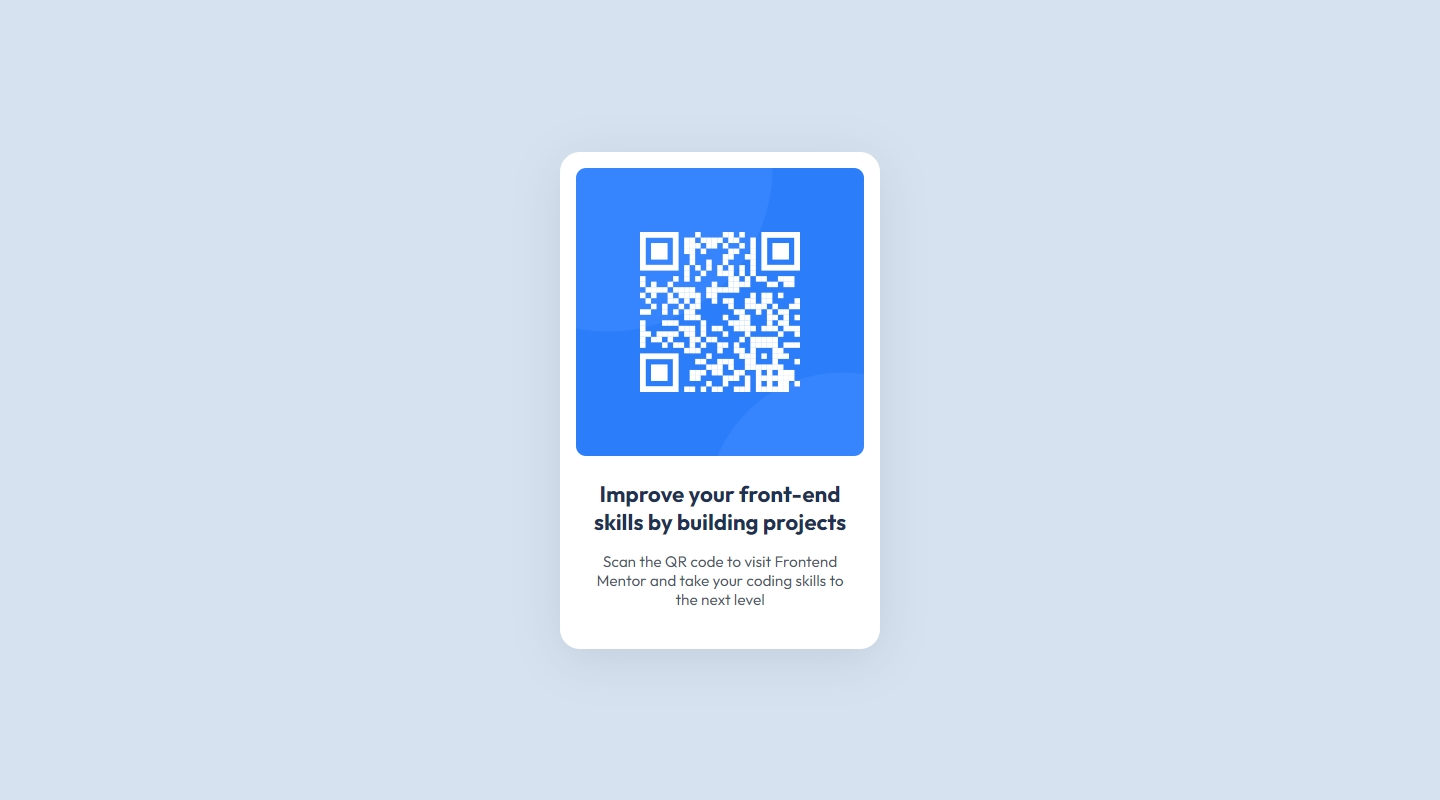
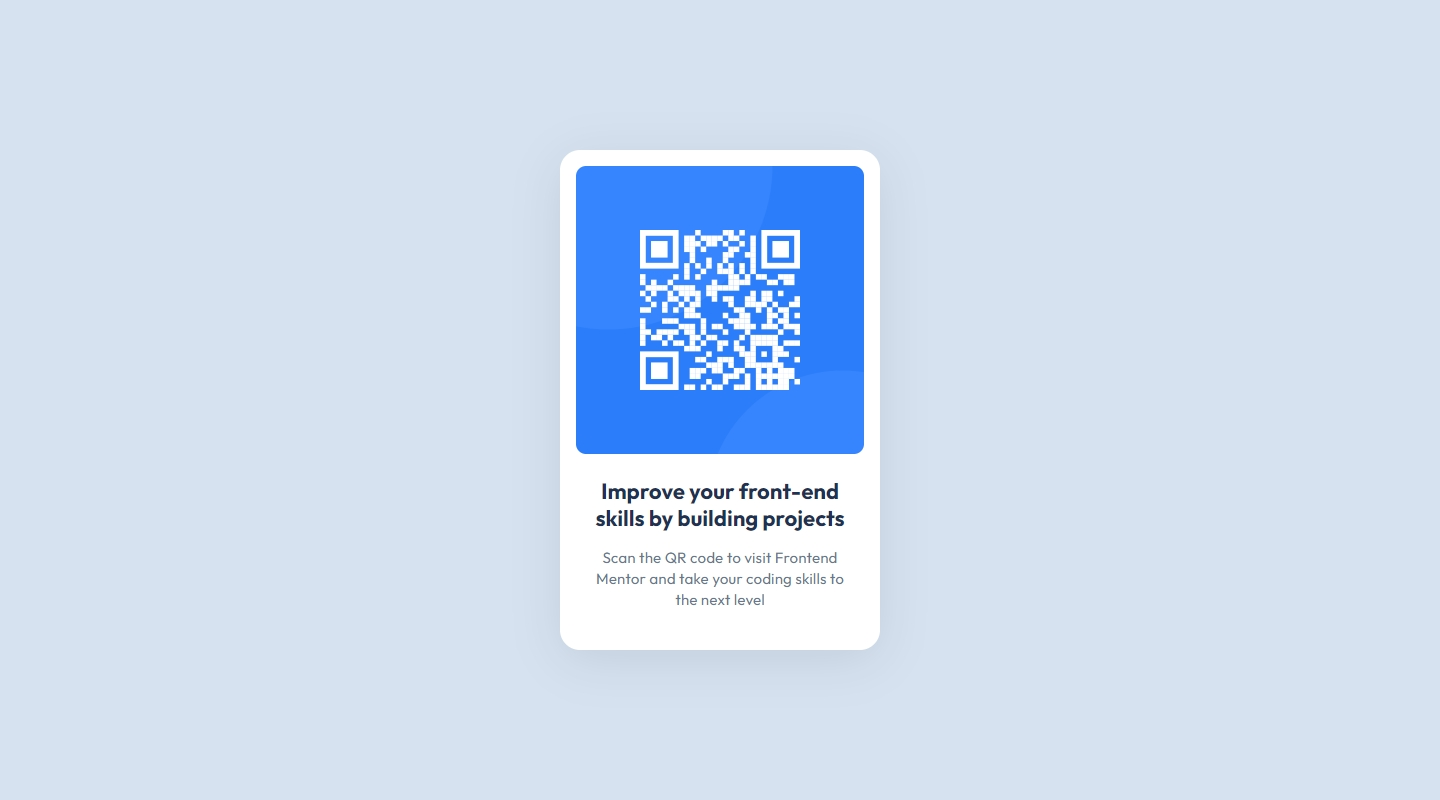
refactor: update project

Changed region(s): [[0.4062, 0.5625, 0.5938, 0.75], [0.4375, 0.2812, 0.5625, 0.5], [0.4062, 0.1875, 0.5938, 0.2188]]

diff --git a/index.html b/index.html
@@ -3,56 +3,61 @@
   <head>
     <meta charset="UTF-8" />
     <meta name="viewport" content="width=device-width, initial-scale=1.0" />
+    <title>QR Code Component</title>
+    <link rel="stylesheet" href="/styles.css" />
+
     <meta name="author" content="Darkstar" />
     <meta
       name="description"
-      content="Darkstar's solution for the QR Code Component challenge on frontendmentor.io"
+      content="Check out Darkstar's solution for the QR Code Component challenge on Frontend Mentor"
     />
-
-    <meta property="og:type" content="website" />
+    <meta
+      property="og:description"
+      content="Check out Darkstar's solution for the QR Code Component challenge on Frontend Mentor"
+    />
     <meta
       property="og:url"
       content="https://qr-code-component-darkstarxdd.vercel.app/"
     />
-    <meta property="og:title" content="QR Code Component - Frontend Mentor" />
-    <meta
-      property="og:description"
-      content="Darkstar's solution for the QR Code Component challenge on frontendmentor.io"
-    />
     <meta
       property="og:image"
-      content="https://qr-code-component-darkstarxdd.vercel.app/images/screenshot_desktop.jpeg"
+      content="https://qr-code-component-darkstarxdd.vercel.app/public/og-img.jpeg"
     />
+    <meta property="og:type" content="website" />
+    <meta property="og:title" content="QR Code Component - Frontend Mentor" />
     <meta property="og:image:type" content="image/jpeg" />
     <meta property="og:image:width" content="1440" />
-    <meta property="og:image:height" content="800" />
+    <meta property="og:image:height" content="756" />
 
     <link
       rel="icon"
       type="image/png"
       sizes="32x32"
-      href="./images/favicon-32x32.png"
+      href="/public/favicon-32x32.png"
     />
-    <link rel="stylesheet" href="styles.css" />
-    <title>QR Code Component</title>
   </head>
 
   <body>
-    <main class="card">
-      <img
-        class="card-img"
-        src="./images/image-qr-code.png"
-        alt="qr code leads to frontendmentor.io"
-      />
+    <main>
+      <div class="card">
+        <h1 class="visually-hidden">QR Code Component</h1>
+        <img
+          src="/assets/images/image-qr-code.png"
+          alt="qr code leads to frontendmentor.io"
+          width="576"
+          height="576"
+          class="card-img"
+        />
 
-      <div class="card-content">
-        <h1 class="card-content__heading">
-          Improve your front-end skills by building projects
-        </h1>
-        <p class="card-content__text">
-          Scan the QR code to visit Frontend Mentor and take your coding skills
-          to the next level
-        </p>
+        <div class="card-content">
+          <h2 class="card-content__heading text-preset-1">
+            Improve your front-end skills by building projects
+          </h2>
+          <p class="card-content__text text-preset-2">
+            Scan the QR code to visit Frontend Mentor and take your coding
+            skills to the next level
+          </p>
+        </div>
       </div>
     </main>
   </body>

diff --git a/README.md b/README.md
@@ -1,39 +1,47 @@
 ## Frontend Mentor Challenge 01 - QR Code Component
 
-This is my solution to the ["QR Code Component" challenge on Frontend Mentor](https://www.frontendmentor.io/challenges/qr-code-component-iux_sIO_H).
+This is my solution to the [QR Code Component](https://www.frontendmentor.io/challenges/qr-code-component-iux_sIO_H) challenge on [Frontend Mentor](https://www.frontendmentor.io/).
 
-### Screenshots of My Solution (Desktop & Mobile) 🔍
+#
+
+### Links. 🔗
+
+- Live Site URL: https://qr-code-component-darkstarxdd.vercel.app/
+
+#
+
+### Screenshots of the Solution (Desktop & Mobile). 🔍
 
 ![](./solution_screenshots/screenshot_desktop.jpeg)
 ![](./solution_screenshots/screenshot_mobile.jpeg)
 
 #
 
-### Links 🔗
+### Built with. 🔨
 
-- Live Site URL: https://qr-code-component-darkstarxdd.vercel.app/
-- Solution URL: https://www.frontendmentor.io/solutions/qr-code-component-nzRrmva-BD
-
-#
-
-### Note 📍
-
-- I used a different font color for the paragraph text because the original font color specified in the style-guide had poor contrast with the background color.
+- HTML & CSS.
 
 #
 
-### Built with 🔧🔨
-
-- HTML5 / CSS
-
-#
-
-### New Things I Learned 🎓📖
+### New Things Learned. 🎓
 
 - About landmark elements and semantic HTML.
 - Writting descriptive image alt text.
 - Avoiding fixed widths & heights on containers and using `max-width` instead of `width`.
 
 #
+
+### Testing and Accessibility. 🧪
+
+- Used the Responsively App to check the site's appearance on various screen sizes, from 320x480 to 3000x2000.
+- Set the browser font size on desktop to various values ranging from 9px to 72px to make sure everything on the site scales properly with the user's preferred browser font size.
+- Zoomed the page in and out using Ctrl + Scroll wheel (up to 500%).
+- Tested with the NVDA screen reader.
+- Viewed the site on an iPhone 11 in both portrait and landscape modes.
+- Performed Lighthouse and PageSpeed tests. ([PageSpeed Result.](pagespeed-url-goes-here))
+
+#
+
+- Some Tools I Use - [DarkstarXDD/tools](https://gist.github.com/DarkstarXDD/4b1844eda12f34b667a0c36e05fcbdf9)
 
 - My Frontend Mentor Profile - [@DarkstarXDD](https://www.frontendmentor.io/profile/DarkstarXDD)
